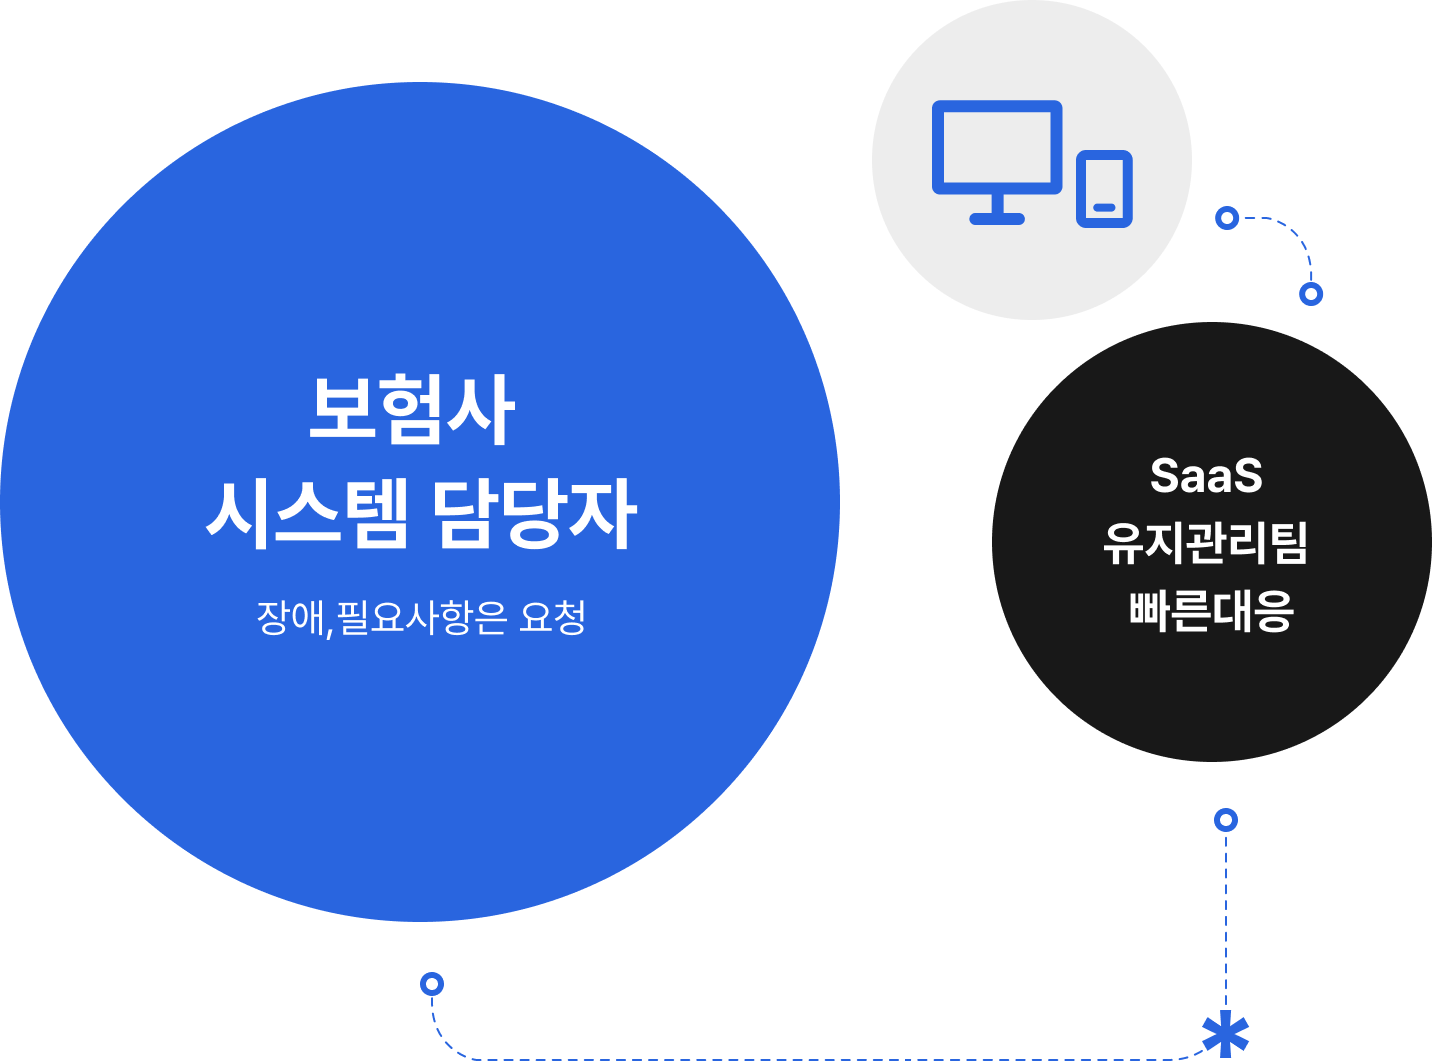
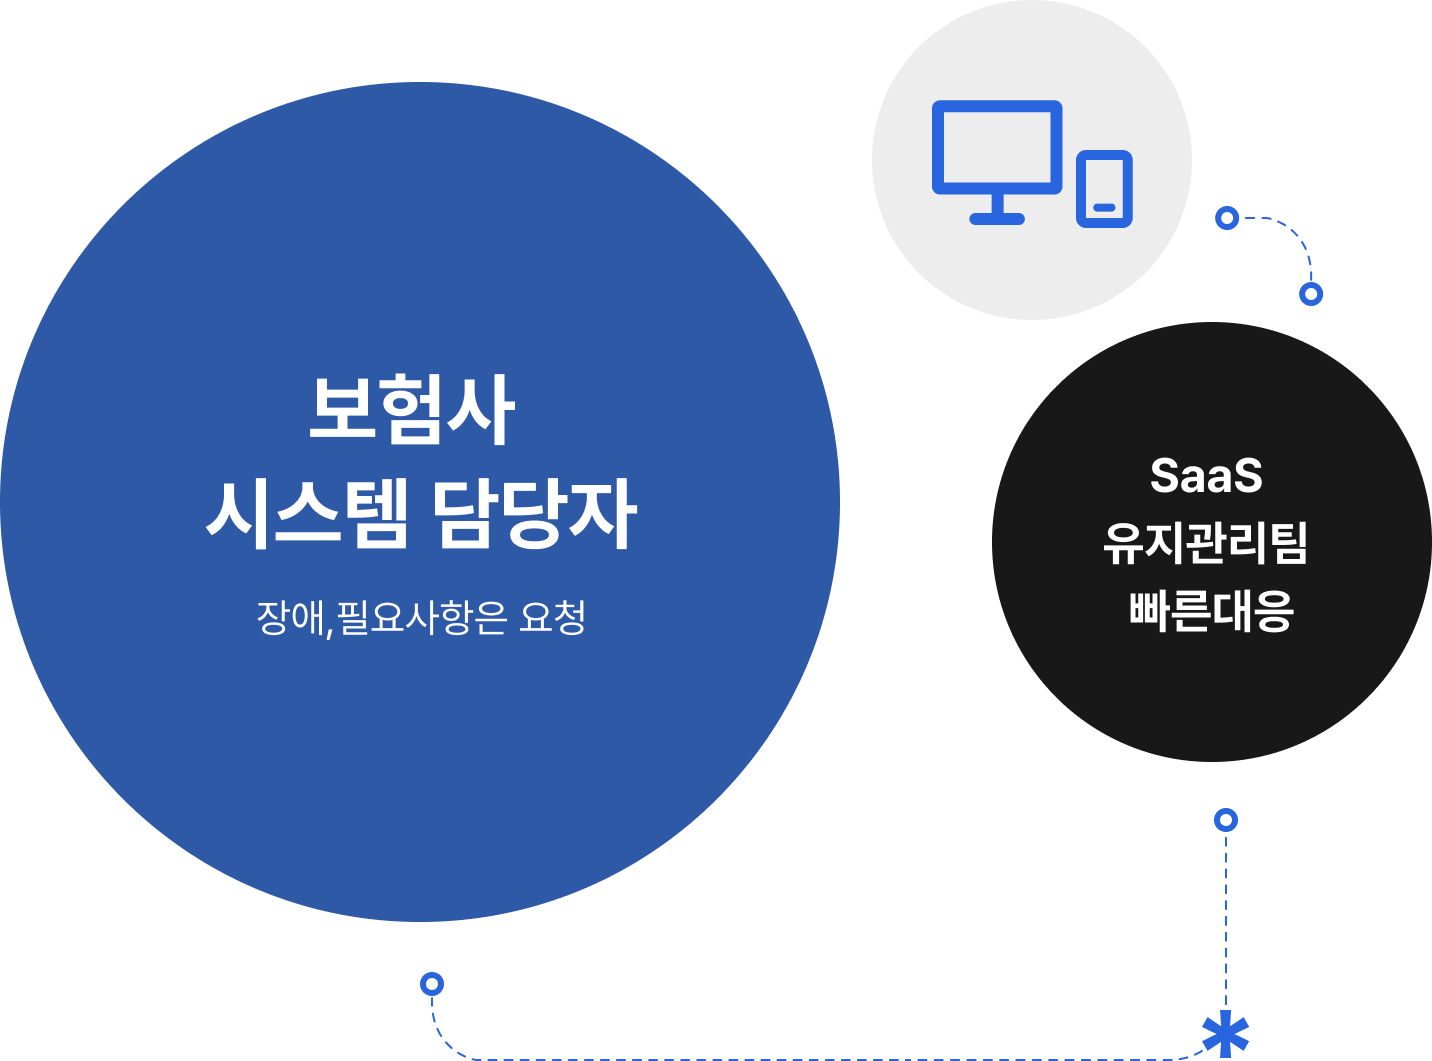
어바웃 리소스 완료

diff --git a/assets/css/style.css b/assets/css/style.css
@@ -253,7 +253,7 @@ html:not(.touchmode) ::-webkit-scrollbar-track {
 .about_blue_item{max-width:1140px;margin:0 auto;position:relative;top:-67px;}
 .about_blue_item img{max-width:100%;vertical-align: middle;}
 
-.hor_swiper_zone{padding:0 7.8125% 134px;text-align: left; max-width:1920px; margin:0 auto; width:100%; box-sizing: border-box; position:relative;overflow: hidden;}
+.hor_swiper_zone{padding:0 7.8125%;text-align: left; max-width:1920px; margin:0 auto 134px; width:100%; box-sizing: border-box; position:relative;overflow: hidden;}
 .hor_swiper_slide_in{text-align: left;background:#fff;}
 
 /* .hor_copy_layer_wrap{/* position:absolute;top:0;left:160px;z-index: 3; } */
@@ -266,7 +266,7 @@ html:not(.touchmode) ::-webkit-scrollbar-track {
 .hor_copy_sub{font-size:1.042vw; color:#555555; line-height:1.5; margin-top:1.563vw;}
 .hor_mb_copy_sub{font-size:14px;color:#555; line-height:1.5;padding-top:20px; display:none;}
 
-.hor_swiper_wrap.swiper{/* margin:0 160px; */}
+.hor_swiper_wrap.swiper{/* margin:0 160px; */position:relative;}
 .hor_swiper_wrap.swiper > .swiper-wrapper{}
 .hor_swiper_wrap.swiper > .swiper-wrapper .swiper-slide.swiper-slide-active{opacity:1 !important;}
 .hor_swiper_wrap.swiper .swiper-slide{background:#fff;opacity:0 !important;}
@@ -277,6 +277,12 @@ html:not(.touchmode) ::-webkit-scrollbar-track {
 }
 .hor_swiper_wrap > .swiper-wrapper > .swiper-slide{
 }
+
+.btn_hor_swiper_control{display:inline-block;width:70px;height:70px;position:absolute;top:50%;transform: translateY(-50%); z-index:5;}
+.btn_hor_swiper_control:before{display:block;content:'';width:27px;height:27px; margin:-16px 0 0 -23px; position:absolute;top:50%;left:50%;border-right:5px solid #000;border-bottom:5px solid #000;transform: rotate(-45deg);}
+.btn_hor_swiper_control.prev{left:2%;}
+.btn_hor_swiper_control.next{right:2%;}
+.btn_hor_swiper_control.prev:before{transform: rotate(-225deg); margin-left:-7px;}
 
 .hor_swiper_scene{min-height:720px;display:flex;flex-direction: column; justify-content: flex-end;background:#fff;}
 .hor_swiper_scene.type2{justify-content: center;}
@@ -320,14 +326,14 @@ html:not(.touchmode) ::-webkit-scrollbar-track {
 
 .hor_package_wrap{display:flex; justify-content: space-between; align-items: flex-end;gap:6.042vw;}
 .hor_pkey_cols{padding:85px 0 40px; border-top:1px solid rgba(0,0,0,.2); flex:0 0 600px;}
-.hor_pkey_title{font-size:2.083vw; font-weight:700; color:#364AFE; line-height:1;}
+.hor_pkey_title{font-size:2.083vw; font-weight:700; color:#2E59A7; line-height:1;}
 .hor_pkey_contents{margin-top:1.667vw;}
 .hor_pkey_contents .hor_dia_img{display:block;}
 .hor_pkey_clist{margin-bottom:0.625vw;display:flex;flex-wrap:wrap;gap:0.417vw;}
 .hor_pkey_clist:last-of-type{margin-bottom:0;}
 .hor_pkey_clist > li{}
 .hor_pkey_clist > li:last-of-type{}
-.hor_pkey_box{font-size:0.729vw; color:#364AFE; display:inline-block; border-radius:0.313vw; border:1px solid #2E59A7; padding:0.313vw 0.625vw;}
+.hor_pkey_box{font-size:0.729vw; color:#2965DF; display:inline-block; border-radius:0.313vw; border:1px solid #2965DF; padding:0.313vw 0.625vw;}
 .hor_pkey_wrap{border-top:1px solid rgba(0,0,0,.2);margin-top:2.083vw; padding-top:2.083vw;}
 
 /* 
@@ -418,13 +424,20 @@ html:not(.touchmode) ::-webkit-scrollbar-track {
   /* .scene_obj_title{font-size:50px;}
   .scene_list_container{padding:0 100px 134px; gap:100px;} */
   .info_ui_wrap{}
+  
+  
+}
+@media (max-width:1680px){
+  .btn_hor_swiper_control{width:50px;height:50px;}
+  .btn_hor_swiper_control:before{width:18px;height:18px; margin:-10px 0 0 -15px; border-width:3px;}
+  .btn_hor_swiper_control.prev:before{margin-left:-5px;}
 }
 @media (max-width:1340px){
 /*   .scene_list_container{padding:0 50px 134px; gap:50px;}
   .scene_toggle_bar{padding:30px 100px 30px 30px;}
   .scene_toggle_contents_inner{padding:20px 30px;}
   .scene_toggle_bar_text{font-size:20px;} */
-  .hor_swiper_zone{padding:0 50px 134px;}
+  .hor_swiper_zone{padding:0 50px; margin-bottom:134px;}
   .info_ui_wrap{padding:0 50px 134px; gap:50px;}
   .info_symbol_main{font-size:17px;}
   .info_symbol_sub{font-size:14px;}
@@ -472,7 +485,7 @@ html:not(.touchmode) ::-webkit-scrollbar-track {
   /* .info_symbol_img{width:24.444vw;height:8.611vw;} */
   .info_symbol_img{width:88px;height:31px;}
 
-  .hor_swiper_zone{padding:0 20px 130px;}
+  .hor_swiper_zone{padding:0 20px; margin-bottom:130px;}
   .hor_copy_primary_group{padding-bottom:30px;}
   .hor_copy_primary_row{display:block;}
   .hor_copy_keyword{display:none;}
@@ -515,6 +528,15 @@ html:not(.touchmode) ::-webkit-scrollbar-track {
   .channel_copy2_sub br{display:none !important; }
 
   .about_blue_item{top:0;}
+  .hor_copy_primary_row{margin:0 -40px;}
+  .hor_swiper_slide_in{padding:0 40px;}
+  .btn_hor_swiper_control{width:32px;height:32px;}
+  .btn_hor_swiper_control:before{width:12px;height:12px; margin:-7px 0 0 -10px; border-width:2px;}
+  .btn_hor_swiper_control.prev:before{margin-left:-3px;}
+  .btn_hor_swiper_control.prev{left:10px;}
+  .btn_hor_swiper_control.next{right:10px;}
+  .hor_copy_obj_group{padding-right:32px;}
+  .between_obj_wrap{margin:20px -16px 0;}
 }
 @media (max-width:450px){
   .info_ui_title{font-size:7vw;}
@@ -534,7 +556,7 @@ html:not(.touchmode) ::-webkit-scrollbar-track {
   .hor_pkey_title{font-size:18px;}
   .hor_pkey_contents{margin-top:10px;}
   .hor_pkey_clist{margin-bottom:5px;display:flex;flex-wrap:wrap;gap:5px;}
-  .hor_pkey_box{font-size:12px;border-radius:2px; border:1px solid #2E59A7; padding:4px 8px;}
+  .hor_pkey_box{font-size:12px;border-radius:2px; border:1px solid #2965DF; padding:4px 8px; color:#2965DF;}
   .hor_pkey_wrap{margin-top:20px; padding-top:15px;}
 
   .main_scene.mc_06{align-items: flex-start; justify-content: flex-start;}

diff --git a/assets/js/ui.js b/assets/js/ui.js
@@ -131,10 +131,15 @@ function mainSwiper() {
   let resourceSwiper = new Swiper('.hor_swiper_wrap',{
     speed : 1000,
     // autoHeight : true,
+    loop : true,
     effect : 'fade',
     autoplay: {
       delay: 2200,
       disableOnInteraction: false,
+    },
+    navigation : {
+      nextEl : '.btn_hor_swiper_control.next', // 다음 버튼 클래스명
+      prevEl : '.btn_hor_swiper_control.prev', // 이번 버튼 클래스명
     },
   });
   /* let faqscroll = new Swiper(".faqscroll", {
@@ -371,7 +376,7 @@ function mainSwiper() {
         $(".nav_bottom_item , .nav_mobile_menu").eq(3).addClass("active");
       }
       if (mainSwiper.realIndex == 4) {
-        resourceSwiper.slideTo(0,0);
+        resourceSwiper.slideToLoop(0);
         setTimeout(()=>{
           resourceSwiper.autoplay.start();
         },1100);
@@ -432,7 +437,7 @@ function mainSwiper() {
         }
         
         if($(window).scrollTop() >= $(".mc_05").offset().top && $(window).scrollTop() <= $(".mc_05").offset().top + $(".mc_05").outerHeight(true)){
-          resourceSwiper.slideTo(0,0);
+          resourceSwiper.slideToLoop(0,0);
           setTimeout(()=>{
             resourceSwiper.autoplay.start();
           },1100);

diff --git a/main.html b/main.html
@@ -192,6 +192,7 @@
 								<!-- about 리소스 -->
 								<!-- <p style="text-align: center;">about 04</p> -->
 								<div class="hor_swiper_zone">
+									<a href="javascript:;" class="btn_hor_swiper_control prev"></a>
 									<div class="hor_swiper_wrap swiper">
 										<div class="swiper-wrapper">
 											<div class="swiper-slide">
@@ -300,6 +301,7 @@
 											</div>
 										</div>
 									</div>
+									<a href="javascript:;" class="btn_hor_swiper_control next"></a>
 								</div>
 								<!-- // about 리소스 -->
 							</div>
